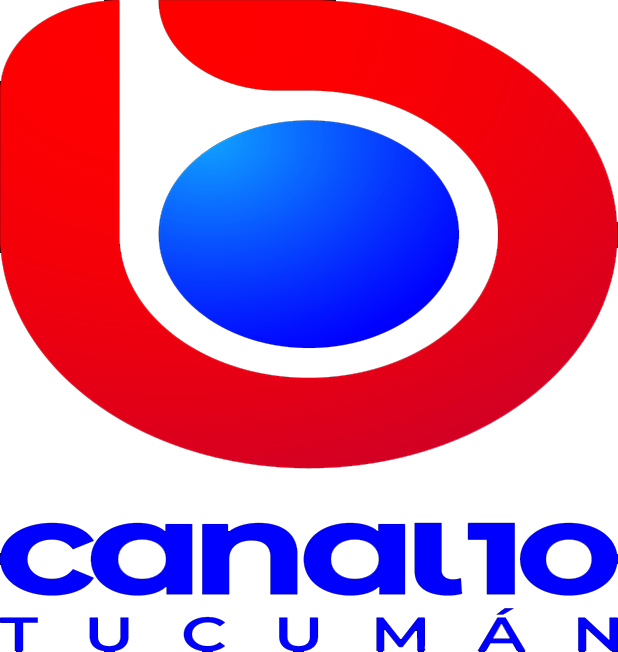
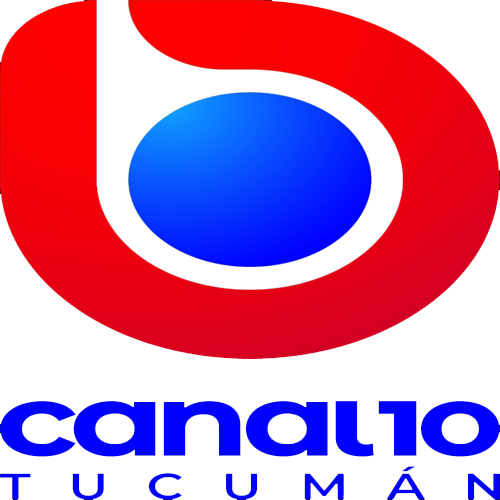
Add files via upload

diff --git a/index.html b/index.html
@@ -185,7 +185,7 @@
 <!-- Tarjeta de Telefe HD -->
         <div class="card" onclick="reproducirCanal('http://45.134.141.161:2200/ARG/TELEFE_HD/index.m3u8', 'Telefe HD')">
           <div class="poster-container">
-            <img src="CARATULAS/tv/telefe-logo.jpg" alt="Telefe HD" loading="lazy">
+            <img src="CARATULAS/tv/telefe.png" alt="Telefe HD" loading="lazy">
           </div>
           <div class="card-info">
             <h3>Telefe HD</h3>
@@ -211,6 +211,17 @@
           </div>
           <div class="card-info">
             <h3>Canal 10</h3>
+            <p>En Vivo</p>
+          </div>
+        </div>
+
+<!-- Tarjeta de TN (YouTube) -->
+        <div class="card" onclick="abrirReproductor('cb12KmMMDJA')">
+          <div class="poster-container">
+            <img src="CARATULAS/tv/tn.png" alt="TN" loading="lazy">
+          </div>
+          <div class="card-info">
+            <h3>TN</h3>
             <p>En Vivo</p>
           </div>
         </div>

diff --git a/styles.css b/styles.css
@@ -369,3 +369,12 @@ a:focus,
   transition: transform 0.2s, outline 0.2s;
   z-index: 10;
 }
+
+/* --- Tarjetas cuadradas solo para TV en Vivo --- */
+#sec-tv .grid-container {
+  grid-template-columns: repeat(auto-fill, minmax(180px, 1fr));
+}
+
+#sec-tv .poster-container {
+  aspect-ratio: 1 / 1;
+}
